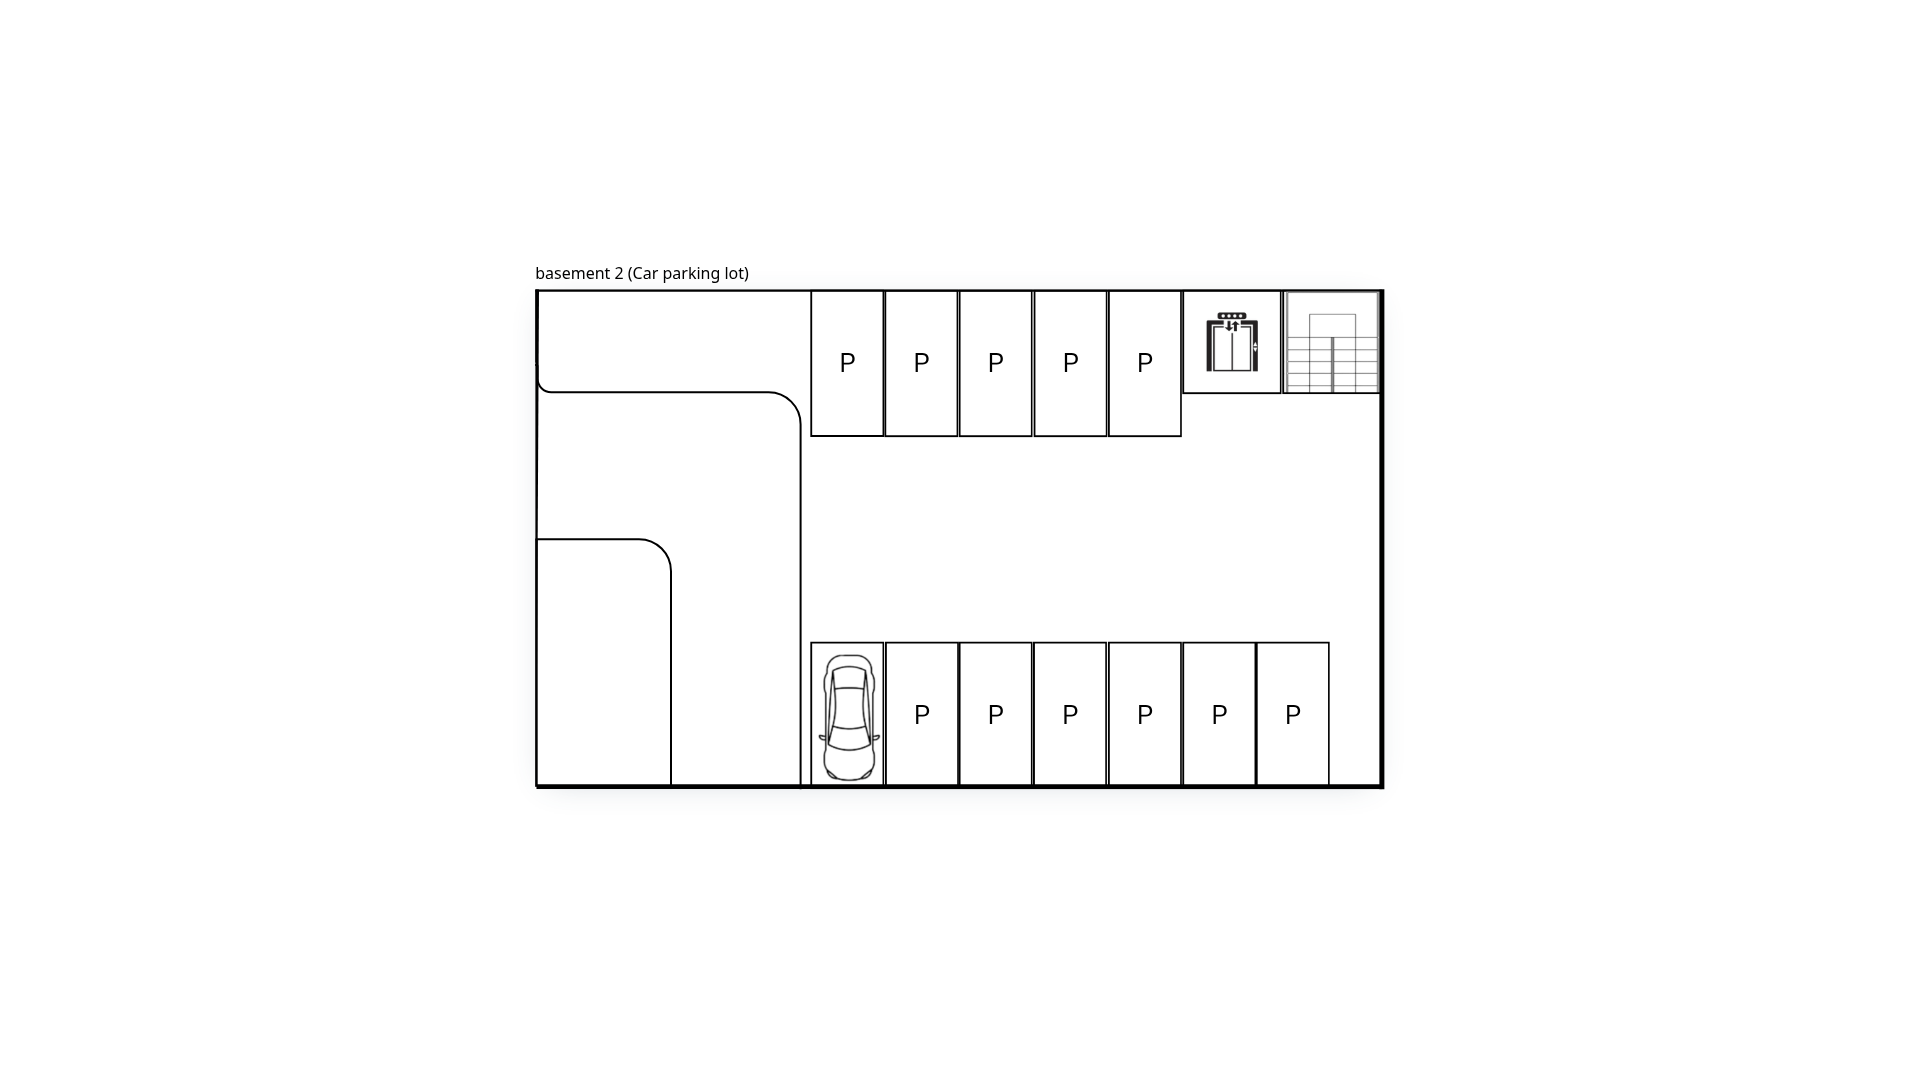
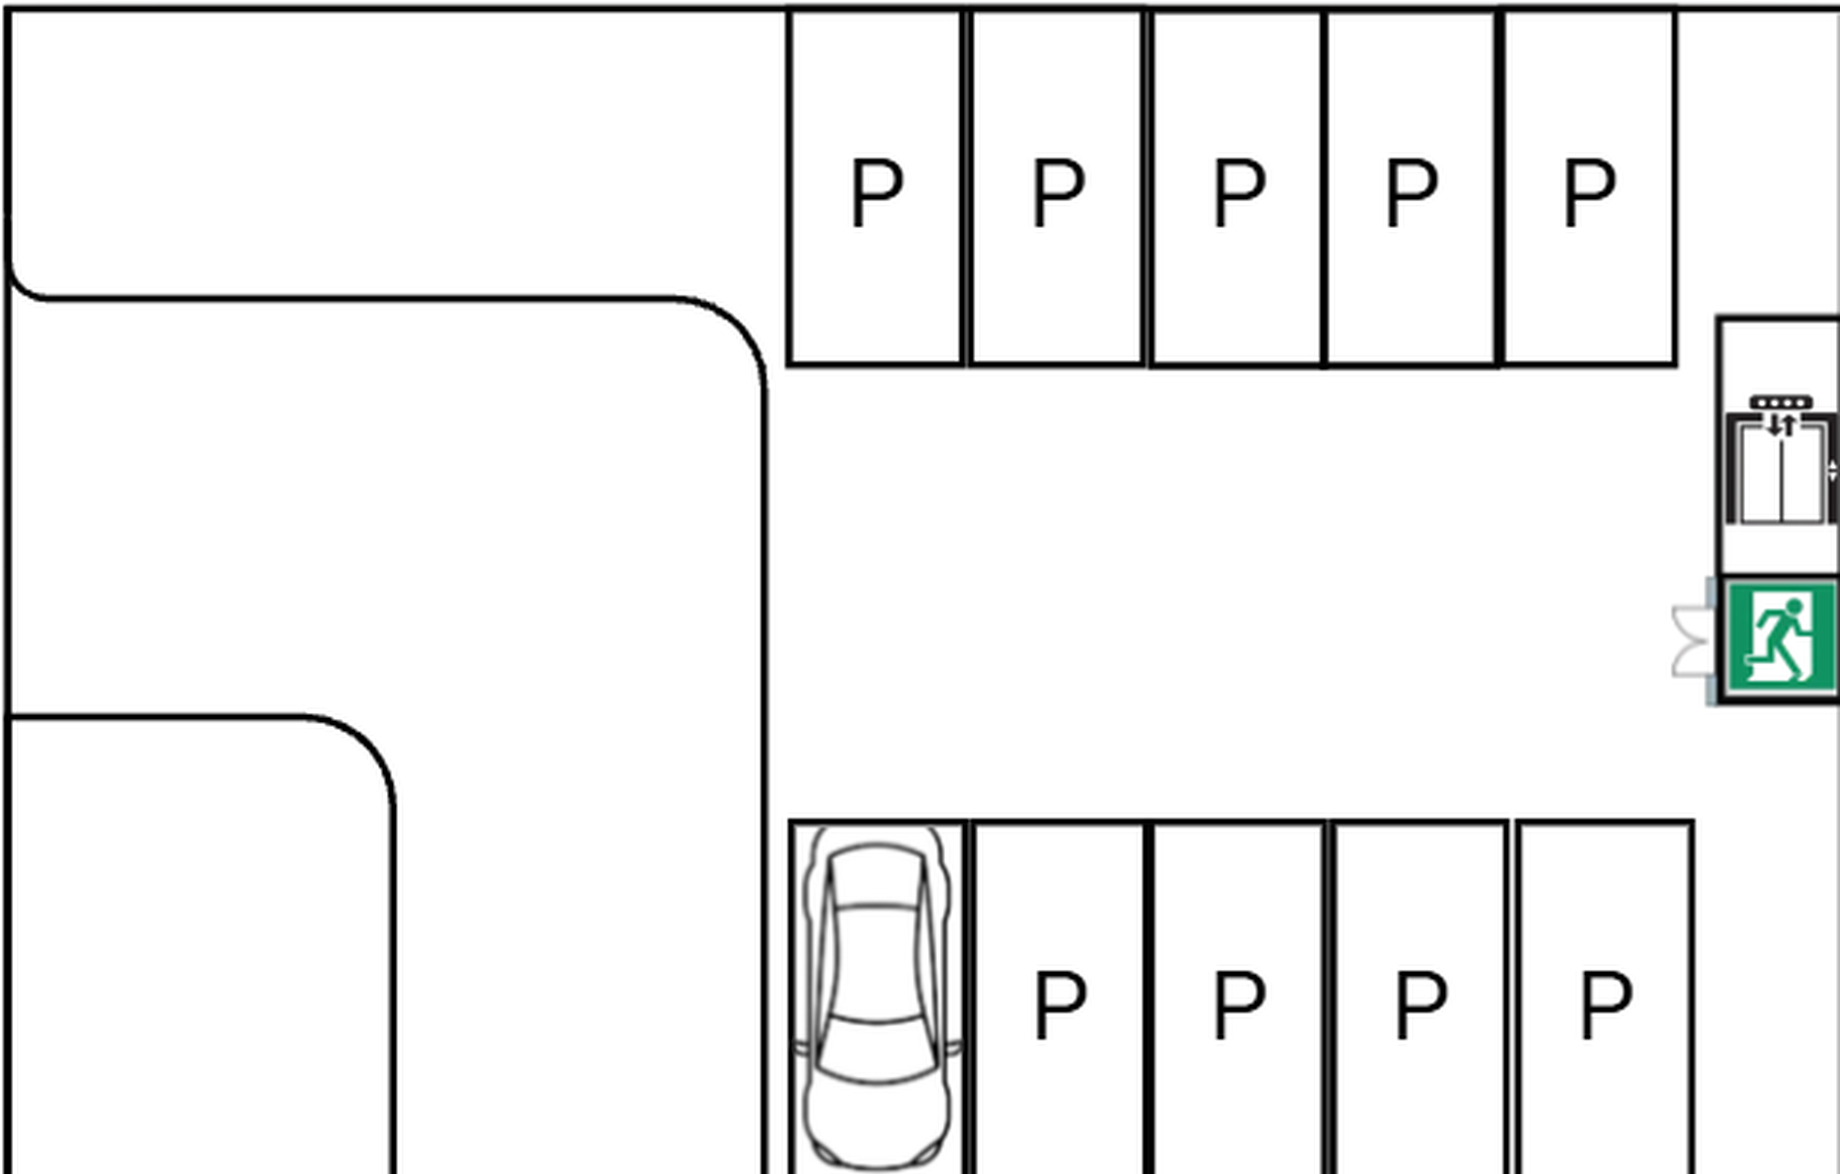
feat(maps): integrate authentic floor plans for Floor 6, B1 and B2 with 1840x1174 coordinate alignment

diff --git a/frontend/src/components/robot/FloorMap.jsx b/frontend/src/components/robot/FloorMap.jsx
@@ -28,14 +28,14 @@ import { QRCodeSVG } from 'qrcode.react';
 
 // Danh sách cấu hình 8 Tầng trong khách sạn
 export const HOTEL_FLOORS = [
-  { id: '1', level: 'B2', name: 'Hầm B2 · Bãi Đỗ Xe Ô Tô', image: '/maps/1.png' },
-  { id: '2', level: 'B1', name: 'Hầm B1 · Bãi Xe Máy', image: '/maps/2.png' },
+  { id: '1', level: 'B2', name: 'Hầm B2 · Bãi Đỗ Xe Ô Tô', image: '/maps/floor_b2.png' },
+  { id: '2', level: 'B1', name: 'Hầm B1 · Bãi Xe Máy', image: '/maps/floor_b1.png' },
   { id: '3', level: 'Ground', name: 'Tầng Trệt · Sảnh & Tiếp Tân', image: '/maps/floor_1.png' },
   { id: '4', level: 'Tầng 2', name: 'Tầng 2 · Bếp & Nhà Hàng (Kitchen & Pickup)', image: '/maps/floor_2.png' },
   { id: '5', level: 'Tầng 3', name: 'Tầng 3 · Phòng Nghỉ (301-310)', image: '/maps/floor_3.png' },
   { id: '6', level: 'Tầng 4', name: 'Tầng 4 · Phòng Nghỉ (401-410)', image: '/maps/floor_4.png' },
   { id: '7', level: 'Tầng 5', name: 'Tầng 5 · Hồ Bơi, Spa & Gym', image: '/maps/floor_5.png' },
-  { id: '8', level: 'Tầng 6', name: 'Tầng 6 · Rooftop Coffee & Bar', image: '/maps/8.png' },
+  { id: '8', level: 'Tầng 6', name: 'Tầng 6 · Rooftop Coffee & Bar', image: '/maps/floor_6.png' },
 ];
 
 // Danh bạ các điểm đến (POI) nổi bật
@@ -454,7 +454,7 @@ export const HOTEL_DESTINATIONS = {
     routeTarget: 'M 1715 560 L 1288 560 L 1288 920',
   },
 
-  // === TẦNG 6 ===
+  // === TẦNG 6: ROOFTOP COFFEE, BAR, GIFT SHOP & KARAOKE (MAP 8.PNG) ===
   rooftop_coffee: {
     id: 'rooftop_coffee',
     name: 'Rooftop Coffee & View',
@@ -466,9 +466,9 @@ export const HOTEL_DESTINATIONS = {
     distance: '130m',
     isDifferentFloor: true,
     step1Text: 'Chặng 1: Di chuyển tới Thang máy A và bấm lên Tầng 6 (Cao nhất).',
-    step2Text: 'Chặng 2: Rẽ trái theo hành lang sang khu vực cafe view toàn cảnh thành phố.',
-    coords: { x: 740, y: 380 },
-    routeTarget: 'M 1249 410 L 1249 470 C 1249 480, 1235 480, 1220 480 L 960 480 C 930 480, 915 510, 908 560 C 900 600, 850 590, 820 560 L 820 450 C 820 420, 790 390, 740 380',
+    step2Text: 'Chặng 2: Ra khỏi thang máy, đi thẳng theo hành lang qua cửa trung tâm vào khu vực Rooftop Coffee.',
+    coords: { x: 380, y: 230 },
+    routeTarget: 'M 1715 560 L 760 560 L 760 500 L 540 500 L 540 460 L 380 230',
   },
   bar: {
     id: 'bar',
@@ -481,9 +481,9 @@ export const HOTEL_DESTINATIONS = {
     distance: '120m',
     isDifferentFloor: true,
     step1Text: 'Chặng 1: Đi tới Thang máy A và bấm lên Tầng 6.',
-    step2Text: 'Chặng 2: Ra khỏi thang máy, rẽ trái 10m là đến Quầy Bar.',
-    coords: { x: 1040, y: 380 },
-    routeTarget: 'M 1249 410 L 1249 470 C 1249 480, 1235 480, 1220 480 L 1080 480 C 1080 450, 1060 420, 1040 380',
+    step2Text: 'Chặng 2: Ra khỏi thang máy, đi dọc hành lang rẽ vào Quầy Bar ở giữa.',
+    coords: { x: 1080, y: 230 },
+    routeTarget: 'M 1715 560 L 1030 560 L 1030 460 L 1080 230',
   },
   karaoke: {
     id: 'karaoke',
@@ -496,9 +496,9 @@ export const HOTEL_DESTINATIONS = {
     distance: '125m',
     isDifferentFloor: true,
     step1Text: 'Chặng 1: Đi tới Thang máy A và bấm lên Tầng 6.',
-    step2Text: 'Chặng 2: Ra khỏi thang máy, đi thẳng xuống cuối hành lang vào Phòng Karaoke.',
-    coords: { x: 1140, y: 680 },
-    routeTarget: 'M 1249 410 L 1249 550 C 1249 570, 1230 600, 1200 630 L 1140 680',
+    step2Text: 'Chặng 2: Ra khỏi thang máy, rẽ trái theo hành lang vào Phòng VIP Karaoke.',
+    coords: { x: 1450, y: 920 },
+    routeTarget: 'M 1715 560 L 1510 560 L 1510 680 L 1450 920',
   },
 
   // === TẦNG TRỆT & HẦM ===
@@ -543,9 +543,9 @@ export const HOTEL_DESTINATIONS = {
     distance: '90m',
     isDifferentFloor: true,
     step1Text: 'Chặng 1: Di chuyển tới Thang máy A và bấm xuống Hầm B2.',
-    step2Text: 'Chặng 2: Ra khỏi thang máy, rẽ trái để vào khu vực đỗ xe ô tô.',
-    coords: { x: 950, y: 520 },
-    routeTarget: 'M 1249 410 L 1249 470 C 1249 480, 1220 480, 1150 480 L 950 520',
+    step2Text: 'Chặng 2: Ra khỏi thang máy, đi thẳng theo hành lang tới khu vực đỗ xe ô tô Hầm B2.',
+    coords: { x: 880, y: 850 },
+    routeTarget: 'M 1715 560 L 880 560 L 880 750 L 880 850',
   },
   parking_bike: {
     id: 'parking_bike',
@@ -558,9 +558,9 @@ export const HOTEL_DESTINATIONS = {
     distance: '85m',
     isDifferentFloor: true,
     step1Text: 'Chặng 1: Di chuyển tới Thang máy A và bấm xuống Hầm B1.',
-    step2Text: 'Chặng 2: Ra khỏi thang máy, rẽ phải vào khu vực giữ xe máy an toàn.',
-    coords: { x: 950, y: 520 },
-    routeTarget: 'M 1249 410 L 1249 470 C 1249 480, 1220 480, 1150 480 L 950 520',
+    step2Text: 'Chặng 2: Ra khỏi thang máy, đi thẳng theo làn di chuyển vào Bãi đỗ xe máy Hầm B1.',
+    coords: { x: 920, y: 500 },
+    routeTarget: 'M 1715 560 L 920 560 L 920 500',
   },
   gift_shop: {
     id: 'gift_shop',
@@ -573,9 +573,9 @@ export const HOTEL_DESTINATIONS = {
     distance: '120m',
     isDifferentFloor: true,
     step1Text: 'Chặng 1: Di chuyển tới Thang máy A và bấm lên Tầng 6.',
-    step2Text: 'Chặng 2: Ra khỏi thang máy, rẽ trái đi vào sảnh trung tâm là đến Quầy quà lưu niệm.',
-    coords: { x: 950, y: 420 },
-    routeTarget: 'M 1249 410 L 1249 470 C 1249 480, 1220 480, 1150 480 L 950 420',
+    step2Text: 'Chặng 2: Ra khỏi thang máy, đi qua cửa trung tâm và rẽ vào Cửa Hàng Lưu Niệm bên trái.',
+    coords: { x: 200, y: 850 },
+    routeTarget: 'M 1715 560 L 760 560 L 760 730 L 370 730 L 200 850',
   },
 };
 

diff --git a/frontend/src/components/robot/FloorMapWayfinding.test.jsx b/frontend/src/components/robot/FloorMapWayfinding.test.jsx
@@ -184,6 +184,12 @@ describe('FloorMap Wayfinding Logic & Contract Tests', () => {
 
     expect(detectDestinationPoi('Hãy giới thiệu cho tôi về hồ bơi')).toBe('infinity_pool');
 
+    expect(detectDestinationPoi('Chỉ đường lên Rooftop Coffee')).toBe('rooftop_coffee');
+    expect(detectDestinationPoi('Quầy bar ở đâu')).toBe('bar');
+    expect(detectDestinationPoi('Phòng karaoke ở tầng mấy')).toBe('karaoke');
+    expect(detectDestinationPoi('Cửa hàng lưu niệm ở đâu')).toBe('gift_shop');
+    expect(detectDestinationPoi('Bãi giữ xe máy ở đâu')).toBe('parking_bike');
+
 
 
     // Không kích hoạt với địa điểm bên ngoài khách sạn
